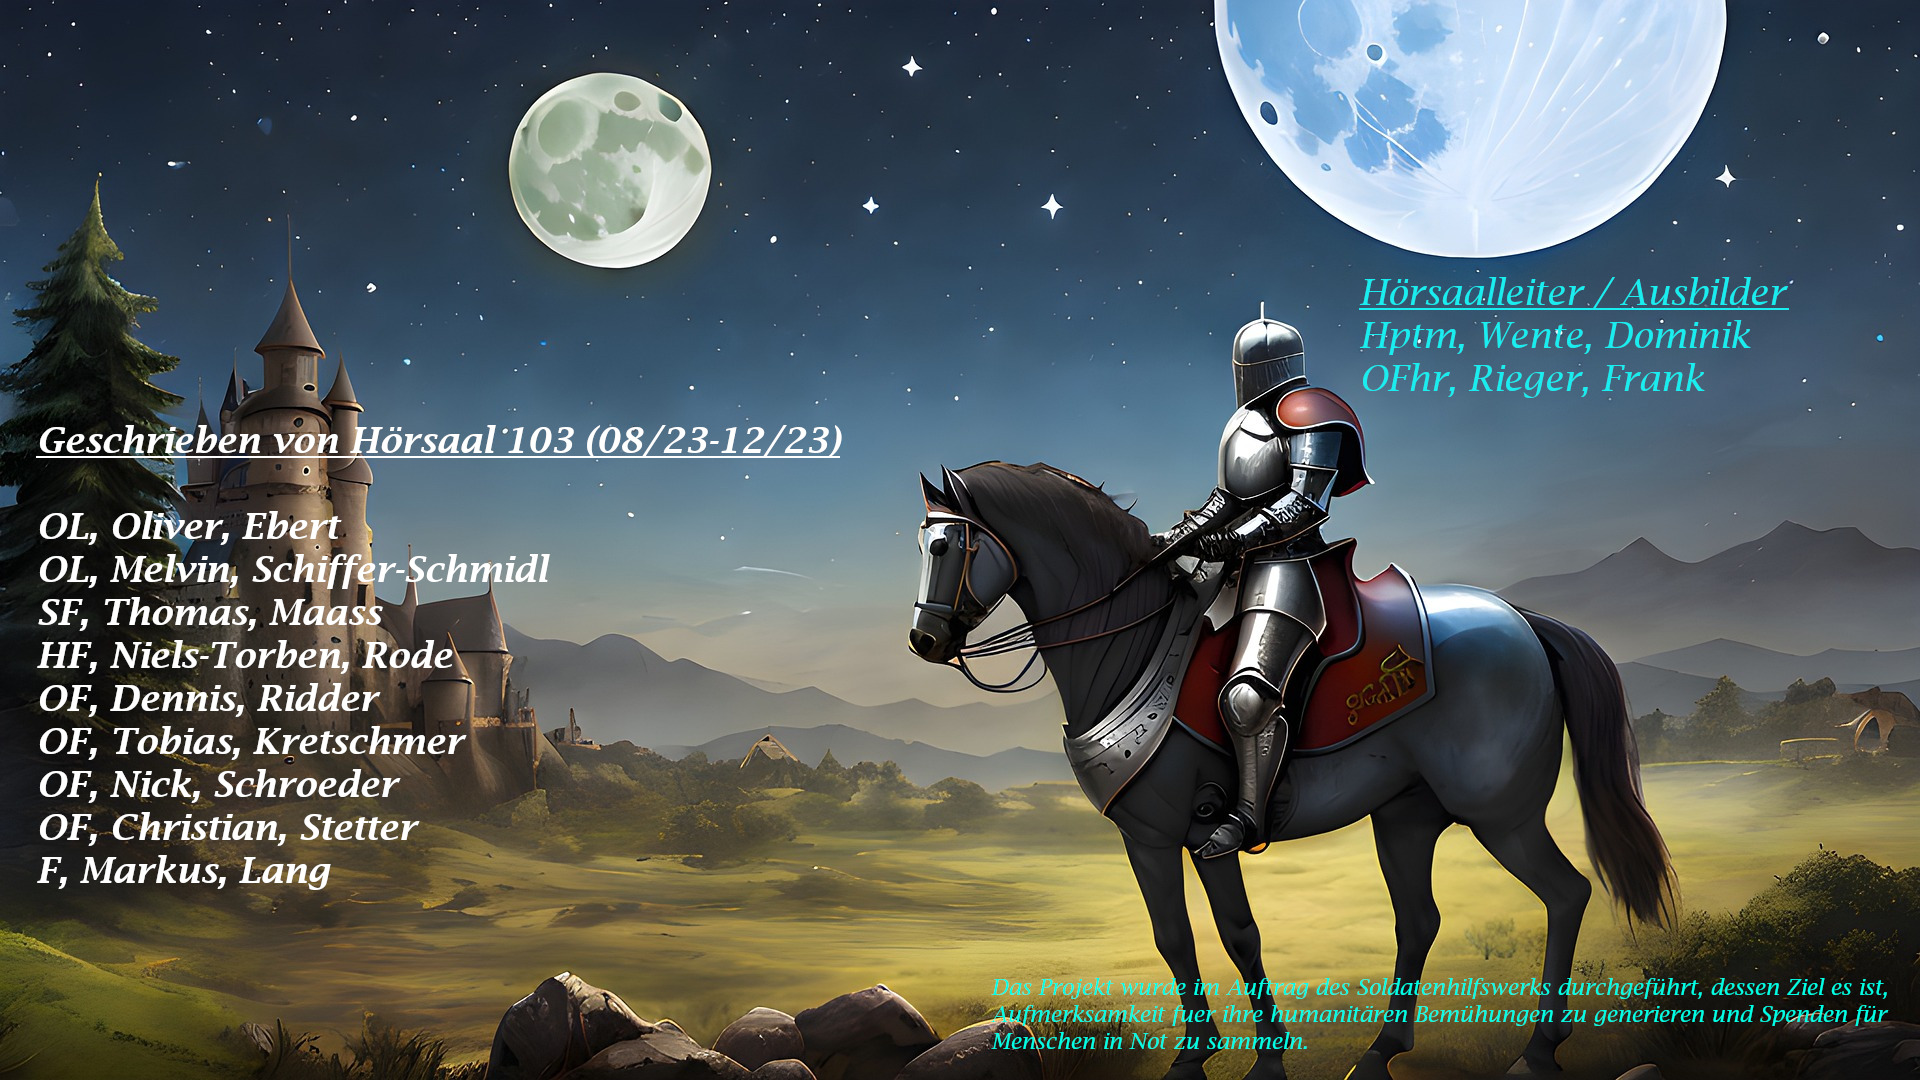
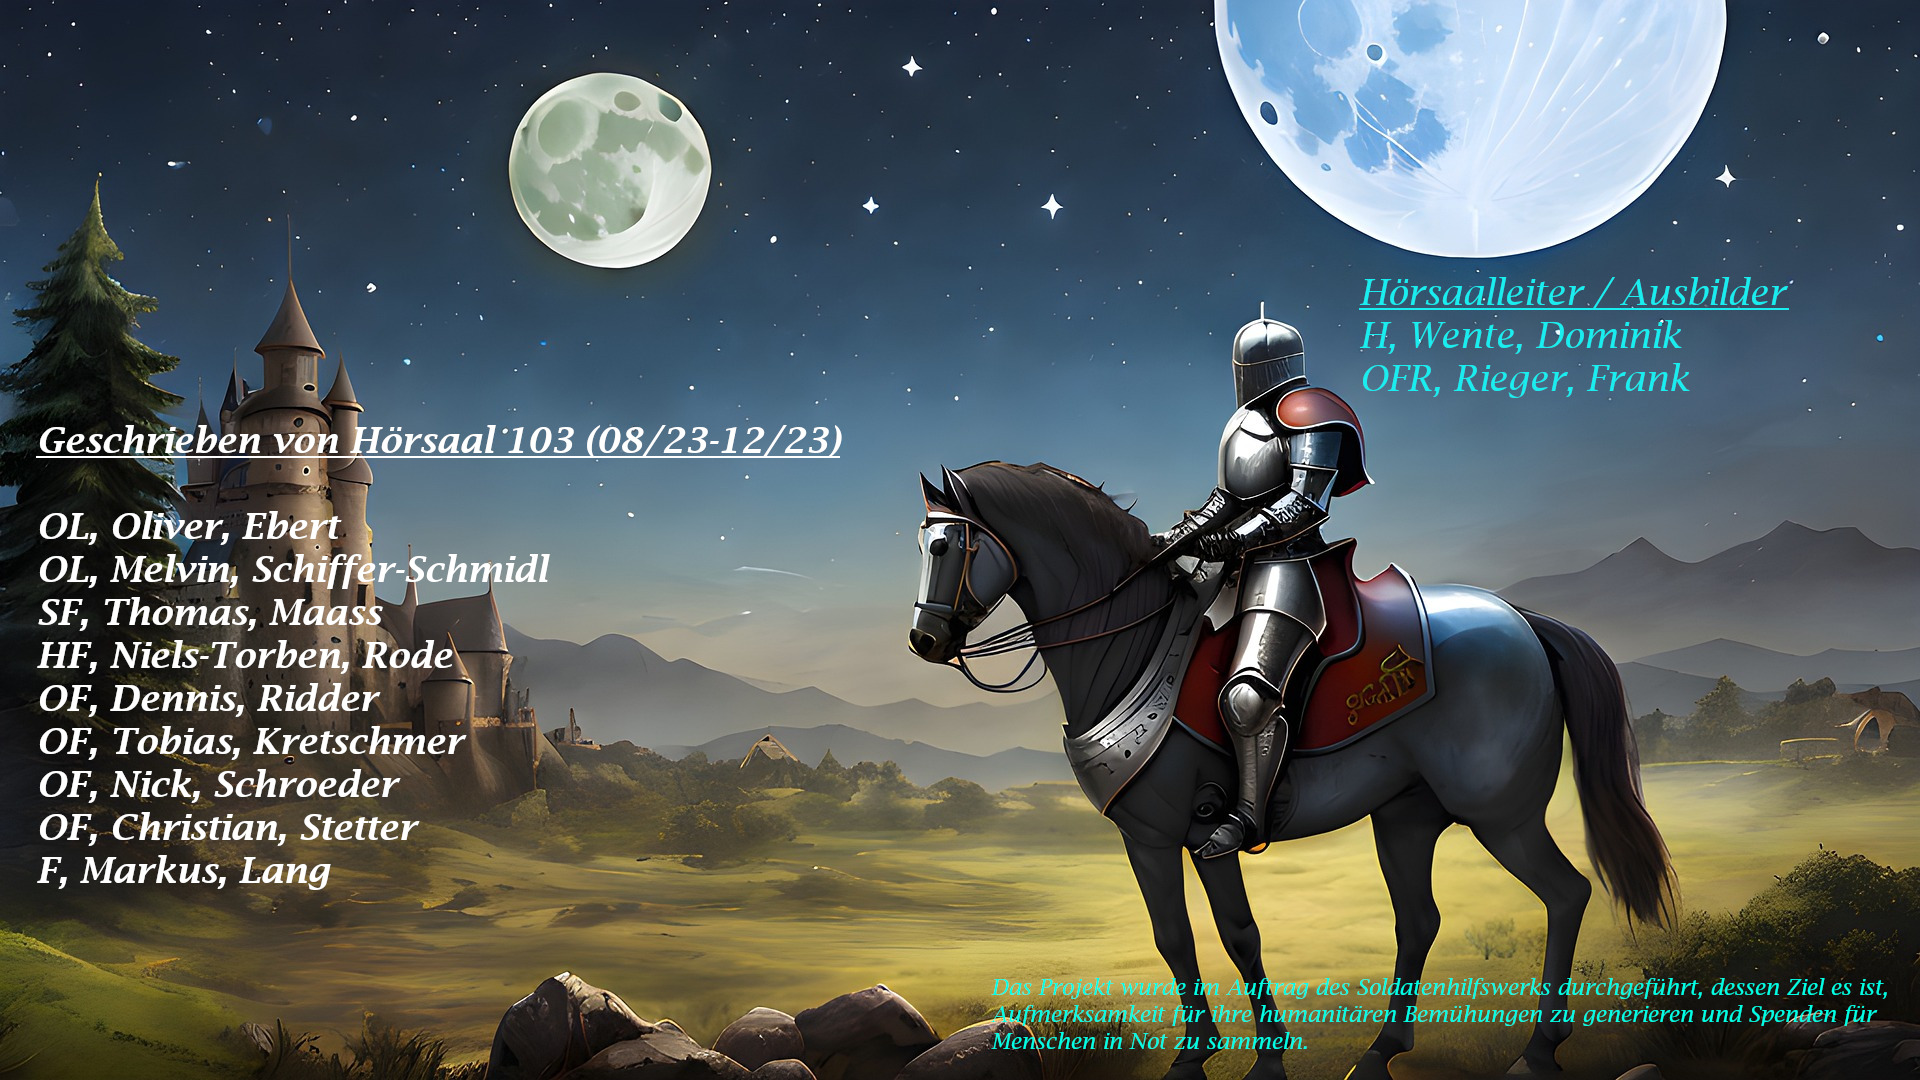
Credit angepasst. /TM

Changed region(s): [[0.7188, 0.3056, 0.9062, 0.3667], [0.625, 0.9167, 1.0, 0.9472]]

diff --git a/FinalFantasyCIII/src/trainer/TrainerController.java b/FinalFantasyCIII/src/trainer/TrainerController.java
@@ -20,10 +20,11 @@ import java.util.ArrayList;
 import java.util.Arrays;
 
 /**
+ * The type Trainer controller.
+ *
  * @author Thomas Maass
  * @since Initiale Befuellung des Controllers mit den Variablen und Methoden.
  */
-
 public class TrainerController {
     private GameHubController gameHubController;
     private PartyController partyController;
@@ -37,13 +38,32 @@ public class TrainerController {
     private TrainerSpezialisierungAendernView trainerSpezialisierungAendernView;
 
     private int auswahl = 0;
+    /**
+     * The constant basisKostenKlasseWechseln.
+     */
     public final static int basisKostenKlasseWechseln = 50;
+    /**
+     * The constant basisKostenSpezialisierungWechseln.
+     */
     public final static int basisKostenSpezialisierungWechseln = 100;
+    /**
+     * The constant basisKostenAttributeAendern.
+     */
     public final static int basisKostenAttributeAendern = 1;
+    /**
+     * The constant basisKostenFaehigkeitenAendern.
+     */
     public final static int basisKostenFaehigkeitenAendern = 1;
 
     private SpielerCharakter aktuellerCharakter;
 
+    /**
+     * Instantiates a new Trainer controller.
+     *
+     * @param gameHubController the game hub controller
+     * @param partyController   the party controller
+     * @param viewController    the view controller
+     */
     public TrainerController(GameHubController gameHubController, PartyController partyController, ViewController viewController) {
         this.gameHubController = gameHubController;
         this.partyController = partyController;
@@ -77,28 +97,45 @@ public class TrainerController {
         //viewController.anmelden(trainerView,bt);
     }
 
-    // Methoden
+    /**
+     * Trainer anzeigen.
+     */
+// Methoden
     public void trainerAnzeigen() {
         trainerView.aktualisiereParty();
         viewController.anmelden(this.trainerView, this.trainerMenuButtons, AnsichtsTyp.MIT_OVERLAY);
     }
 
+    /**
+     * Trainer klasse aendern anzeigen.
+     */
     public void trainerKlasseAendernAnzeigen() {
         trainerKlasseAendernView.aenderungVorbereiten();
         viewController.anmelden(trainerKlasseAendernView, this.trainerMenuButtons, AnsichtsTyp.MIT_OVERLAY);
     }
 
+    /**
+     * Trainer spezialisierung aendern view.
+     */
     public void trainerSpezialisierungAendernView() {
         trainerSpezialisierungAendernView.aenderungVorbereiten();
         viewController.anmelden(trainerSpezialisierungAendernView, this.trainerMenuButtons, AnsichtsTyp.MIT_OVERLAY);
 
     }
 
+    /**
+     * Trainer attribute aendern anzeigen.
+     */
     public void trainerAttributeAendernAnzeigen() {
         trainerAttributeAendernView.anzeigeVorbereiten();
         viewController.anmelden(trainerAttributeAendernView, this.trainerMenuButtons, AnsichtsTyp.MIT_OVERLAY);
     }
 
+    /**
+     * Sets charakter auswahl.
+     *
+     * @param charakter the charakter
+     */
     public void setCharakterAuswahl(SpielerCharakter charakter) {
         this.aktuellerCharakter = charakter;
     }
@@ -110,6 +147,12 @@ public class TrainerController {
     private void faehigkeitenLernen(Faehigkeit faehigkeit) {
     }
 
+    /**
+     * Attribut aendern.
+     *
+     * @param zuAenderndesAttribut und boolschen Wert erhoehen. (true = erhöhen, false = verringern)
+     * @param erhoehen             the erhoehen
+     */
     public void attributAendern(String zuAenderndesAttribut, boolean erhoehen) {
         if (erhoehen) {
             switch (zuAenderndesAttribut) {
@@ -191,14 +234,29 @@ public class TrainerController {
     private void klasseAendern(Klasse klasse) {
     }
 
+    /**
+     * Gets game hub controller.
+     *
+     * @return the game hub controller
+     */
     public GameHubController getGameHubController() {
         return gameHubController;
     }
 
+    /**
+     * Gets party controller.
+     *
+     * @return the party controller
+     */
     public PartyController getPartyController() {
         return partyController;
     }
 
+    /**
+     * Gott modus.
+     * @author Thomas Maass
+     * @since 05.12.2023
+     */
     public void gottModus() {
         SpielerCharakter[] dasTeam = this.getPartyController().getTeammitglieder();
 
@@ -218,6 +276,8 @@ public class TrainerController {
             dasTeam[0].setLevel(666);
             // Gold setzen
             this.getPartyController().getParty().setGold(999999);
+            //offene Attriburtspunkte
+
             //Setzen von Materialien
             this.getPartyController().materialHinzufuegen(Material.EISENERZ, 999999);
             this.getPartyController().materialHinzufuegen(Material.GOLDERZ, 999999);
@@ -235,16 +295,30 @@ public class TrainerController {
 
     }
 
+    /**
+     * Sets trainer hintergrund.
+     *
+     * @return the trainer hintergrund
+     */
     public static Background setzeTrainerHintergrund() {
         return (new Background(new BackgroundImage(new Image("/background/hintergrundtrainer.png"),
                 BackgroundRepeat.NO_REPEAT, BackgroundRepeat.NO_REPEAT, BackgroundPosition.DEFAULT,
                 new BackgroundSize(1920, 1080, false, false, false, false))));
     }
 
+    /**
+     * Aktuelle nach hinten.
+     */
     public void aktuelleNachHinten() {
         viewController.aktuelleNachHinten();
     }
 
+    /**
+     * Klasse aendern boolean.
+     *
+     * @param zielKlasse the ziel klasse
+     * @return the boolean
+     */
     public boolean klasseAendern(String zielKlasse) {
         if (partyController.getPartyGold() >= basisKostenKlasseWechseln) {
             switch (zielKlasse) {
@@ -270,6 +344,12 @@ public class TrainerController {
         }
     }
 
+    /**
+     * Spezialisierung aendern boolean.
+     *
+     * @param zielSpezialisierung the ziel spezialisierung
+     * @return the boolean
+     */
     public boolean spezialisierungAendern(String zielSpezialisierung){
         if(basisKostenSpezialisierungWechseln > partyController.getPartyGold()){
             return false;
@@ -280,15 +360,27 @@ public class TrainerController {
         trainerSpezialisierungAendernView.aenderungVorbereiten();
         return true;
     }
+
+    /**
+     * Trainer spezialisierungprüfen.
+     */
     public void trainerSpezialisierungprüfen(){
 
 
     }
 
+    /**
+     * Aktualisiere party.
+     */
     public void aktualisiereParty(){
 
     }
 
+    /**
+     * Gets aktueller charakter.
+     *
+     * @return the aktueller charakter
+     */
     public SpielerCharakter getAktuellerCharakter() {
         return aktuellerCharakter;
     }

diff --git a/FinalFantasyCIII/src/trainer/TrainerKlasseAendernView.java b/FinalFantasyCIII/src/trainer/TrainerKlasseAendernView.java
@@ -31,6 +31,7 @@ public class TrainerKlasseAendernView extends BorderPane {
         titel.setAlignment(Pos.CENTER);
         titel.getStyleClass().add("trainerTitel");
         this.setTop(titel);
+        // Label soll nur angezeigt werden, wenn man eine Klasse änert. Initial ausgeblendet
         lblaktuelleKlasse = new Label();
         lblaktuelleKlasse.setVisible(false);
         lblaktuelleKlasse.textProperty().addListener((observable, oldValue, newValue) -> {if(newValue.isEmpty()){
@@ -72,13 +73,14 @@ public class TrainerKlasseAendernView extends BorderPane {
 
         this.getStyleClass().add("trainerStyle");
     }
+    /**
+     * @author Thomas Maass
+     * @since 05.12.2023
+     */
 
     public void aenderungVorbereiten() {
         //Vorbereitung der View auf den aktuelle Cgharakter
-
-
         // Anzeige Charakter setzen
-
         sb = new StringBuilder();
         sb.append("Name : " + trainerController.getAktuellerCharakter().getName() + "\n");
         sb.append("Klasse :" + trainerController.getAktuellerCharakter().getKlasse().getBezeichnung() + "\n");
@@ -104,7 +106,12 @@ public class TrainerKlasseAendernView extends BorderPane {
             btnHLR.setDisable(true);
         }
     }
-
+    /**
+     * @author Thomas Maass
+     * @param zielKlasse wird übergeben.
+     * @return kein Return Wert
+     * @since 05.12.2023
+     */
     private void klasseAenderKlick(String zielKlasse) {
         if (trainerController.klasseAendern(zielKlasse)) {
             lblaktuelleKlasse.setText("Klasse von " + trainerController.getAktuellerCharakter().getName() + " wurde geändert zu " + trainerController.getAktuellerCharakter().getKlasse().getBezeichnung());
@@ -114,6 +121,6 @@ public class TrainerKlasseAendernView extends BorderPane {
         aenderungVorbereiten();
     }
 
-    // getter <-> Setter
+
 
 }
